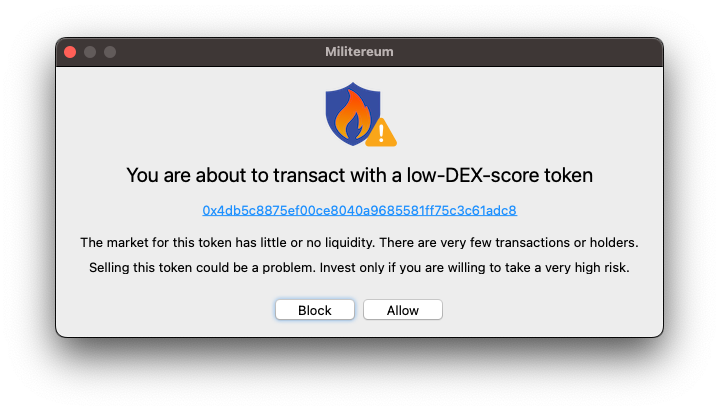
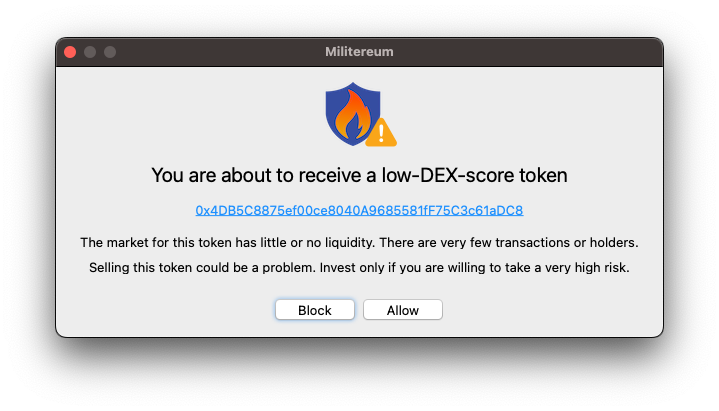
Update README.me

Changed region(s): [[0.1836, 0.4088, 0.8261, 0.4672], [0.2754, 0.4964, 0.7344, 0.5255]]

diff --git a/README.md b/README.md
@@ -52,8 +52,9 @@ Besides token allowances, Militereum will block...
 7. you buying [a token that lies about its own token supply](assets/spam.png)
 8. you buying [a honeypot token that is designed to pump but you cannot sell](assets/honeypot.png)
 9. you buying [a token that is unsupported by Uniswap](assets/unsupported.png)
-10. you buying [a low-DEX-score token](assets/lowDexScore.png)
-11. deposits to a [metamorphic smart contract](https://0age.medium.com/the-promise-and-the-peril-of-metamorphic-contracts-9eb8b8413c5e) that could be updated to divert your money elsewhere.
+10. you receiving [a token without a DEX pair](assets/noDexPair.png)
+11. you receiving [a low-DEX-score token](assets/lowDexScore.png)
+12. deposits to a [metamorphic smart contract](https://0age.medium.com/the-promise-and-the-peril-of-metamorphic-contracts-9eb8b8413c5e) that could be updated to divert your money elsewhere.
 
 Militereum's warnings are provided for informational purposes only and should not be taken as financial advice. Remember to always do your own research before interacting with tokens.
 
